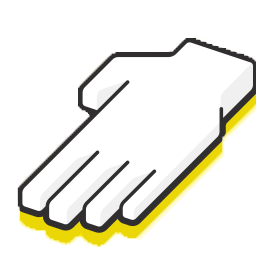
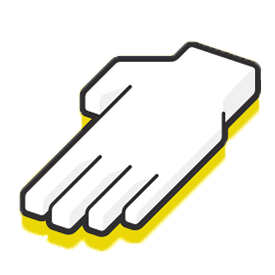
Write function in js, edit image, index to game

Changed region(s): [[0.0582, 0.1164, 0.96, 0.9309]]

diff --git a/game.html b/game.html
@@ -1,0 +1,55 @@
+<!DOCTYPE html>
+<html lang="en">
+<head>
+    <meta charset="UTF-8">
+    <meta http-equiv="X-UA-Compatible" content="IE=edge">
+    <meta name="viewport" content="width=device-width, initial-scale=1.0">
+    <title>Game</title>
+    <!-- CSS only -->
+    <link href="https://cdn.jsdelivr.net/npm/bootstrap@5.2.2/dist/css/bootstrap.min.css" rel="stylesheet" integrity="sha384-Zenh87qX5JnK2Jl0vWa8Ck2rdkQ2Bzep5IDxbcnCeuOxjzrPF/et3URy9Bv1WTRi" crossorigin="anonymous">
+    <!--Icons link-->
+    <link rel="stylesheet" href="https://cdn.jsdelivr.net/npm/bootstrap-icons@1.9.1/font/bootstrap-icons.css">  
+    <link rel="stylesheet" href="css/style.css">  
+</head>
+<body>
+    <section id="game" class="text-center py-3">
+        <div class="container-fluid container-md">
+            
+            <!-- Person -->
+            <h1 class="fw-bold">Choose One</h1>
+            <div class="games row justify-content-center p-4">
+                <img src="img/rock.png" alt="rock picture" type="button" name="rock" class="col-4 col-sm-2 choice">
+                <img src="img/scissors.png" alt="scrissors picture" type="button" name="scissors" class=" col-4  col-sm-2 choice">
+                <img src="img/paper.png" alt="paper picture" type="button" name="paper" class="col-4 col-sm-2 choice">
+            </div>
+            <div class="row justify-content-center">
+                <!--Username-->
+                <div class="personChoice col col-sm-4 row">
+                    <h3 class="">Username</h3>
+                    <div class="choiceBox user">
+                        <img src="img/rock.png" alt="picture" class="col-6 col-sm-5 ">
+                    </div>
+                    <h3>3</h3>
+                </div>
+                <!-- Computer -->
+                <div class="computerChoice col col-sm-4 row">
+                    <h3 class="">Computer</h3>
+                    <div class="choiceBox computer">
+                        <img src="img/rock.png" alt="picture" class="col-6 col-sm-5">
+                    </div>
+                    <h3>2</h3>
+                </div>
+            </div> 
+            <h3 class="my-4 gameResult">Result!</h3>
+            <div class="row px-3 justify-content-center">
+                <button type="button" class="btn btn-dark fw-bold mb-3 col-12 col-sm-3">Restart</button>   
+            </div>
+
+        </div>
+    </section>
+
+    <!-- JavaScript Bundle with Popper -->
+    <script src="https://cdn.jsdelivr.net/npm/bootstrap@5.2.2/dist/js/bootstrap.bundle.min.js" integrity="sha384-OERcA2EqjJCMA+/3y+gxIOqMEjwtxJY7qPCqsdltbNJuaOe923+mo//f6V8Qbsw3" crossorigin="anonymous"></script>
+    <script src="js/script.js"></script>
+</body>
+</html>

diff --git a/index.html b/index.html
@@ -5,54 +5,8 @@
     <meta http-equiv="X-UA-Compatible" content="IE=edge">
     <meta name="viewport" content="width=device-width, initial-scale=1.0">
     <title>Game</title>
-    <!-- CSS only -->
-    <link href="https://cdn.jsdelivr.net/npm/bootstrap@5.2.2/dist/css/bootstrap.min.css" rel="stylesheet" integrity="sha384-Zenh87qX5JnK2Jl0vWa8Ck2rdkQ2Bzep5IDxbcnCeuOxjzrPF/et3URy9Bv1WTRi" crossorigin="anonymous">
-    <!--Icons link-->
-    <link rel="stylesheet" href="https://cdn.jsdelivr.net/npm/bootstrap-icons@1.9.1/font/bootstrap-icons.css">  
-    <link rel="stylesheet" href="css/style.css">  
 </head>
 <body>
-    <section id="game" class="text-center py-3">
-        <div class="container-fluid container-md">
-
-            <h1 class="mb-4 fw-bold">Let's Play Game</h1>
-            
-            <!-- Person -->
-            <h3>Choose One</h3>
-            <div class="games row p-4">
-                <img src="img/rock.png" alt="rock picture" type="button" name="rock" class="col choice">
-                <img src="img/scissors.png" alt="scrissors picture" type="button" name="scissors" class=" col choice">
-                <img src="img/paper.png" alt="paper picture" type="button" name="paper" class="col choice">
-            </div>
-            <div class="row">
-                <!--Username-->
-                <div class="personChoice col">
-                    <h3 class="">Username</h3>
-                    <div class="choiceBox">
-                        <i class="bi bi-box"></i>
-                    </div>
-                    <h3>3</h3>
-                </div>
-                <!-- Computer -->
-                <div class="computerChoice col">
-                    <h3 class="">Computer</h3>
-                    <div class="choiceBox">
-                        <i class="bi bi-box"></i>
-                    </div>
-                    <h3>2</h3>
-                </div>
-            </div> 
-            <h3 class="my-4">Someone Win!</h3>
-            <div class="row px-3 justify-content-center">
-                <button type="button" class="btn btn-dark mb-3 me-sm-3 fw-bold col-12 col-sm-3">Start</button>
-                <button type="button" class="btn btn-dark fw-bold mb-3 col-12 col-sm-3">Restart</button>   
-            </div>
-
-        </div>
-    </section>
-
-    <!-- JavaScript Bundle with Popper -->
-    <script src="https://cdn.jsdelivr.net/npm/bootstrap@5.2.2/dist/js/bootstrap.bundle.min.js" integrity="sha384-OERcA2EqjJCMA+/3y+gxIOqMEjwtxJY7qPCqsdltbNJuaOe923+mo//f6V8Qbsw3" crossorigin="anonymous"></script>
-    <script src="js/script.js"></script>
+    
 </body>
 </html>

diff --git a/js/script.js b/js/script.js
@@ -1,27 +1,55 @@
 window.addEventListener('DOMContentLoaded', () => {
-    const choices = document.querySelectorAll('.choice')
+    const choices = document.querySelectorAll('.choice'),
+        gameResult = document.querySelector('.gameResult'),
+        userChoice = document.querySelector('.user'),
+        computerChoice = document.querySelector('.computer')
 
+    // game function
+    function playGame(user, computer) {
 
-    let r = 'rock',
-        s = 'scissors',
-        p = 'paper'
+        if (user == computer) {
+            gameResult.innerHTML = "Tie!"
+        } else if (user == 'rock' && computer == 'scissors') {
+            gameResult.innerHTML = "You Win!"
+        } else if (user == 'scissors' && computer == 'paper') {
+            gameResult.innerHTML = "You Win!"
+        } else if (user == 'paper' && computer == 'rock') {
+            gameResult.innerHTML = "You Win!"
+        } else {
+            gameResult.innerHTML = "You Lose!"
+        }
 
+        console.log(user)
+        console.log(computer)
+    }
+
+    // Show choices of user and computer function
+    function showChoice(user, computer) {
+        userChoice.innerHTML = `<img src='img/${user}.png' alt='picture' class='col-6 col-sm-5'>`
+        computerChoice.innerHTML = `<img src='img/${computer}.png' alt='picture' class='col-6 col-sm-5'>`
+    }
     
-    let user = choices.forEach((item) => {
-        let userChoose
+    // User choose one
+    choices.forEach((item) => {
         item.addEventListener('click', () => {
-           userChoose = item.name
+
+            // Computer choose random
+            const compRandom = Math.floor(Math.random() * 3)
+            let computerChoose
+            if (compRandom == 0) {
+                computerChoose = 'rock'
+            } else if (compRandom == 1) {
+                computerChoose = 'scissors'
+            } else if (compRandom == 2) {
+                computerChoose = 'paper'
+            }
+
+            playGame(item.name, computerChoose)
+            showChoice(item.name, computerChoose)    
         })
     })
-    console.log(typeof user)
-    const compChoose = Math.floor(Math.random() * 3)
-    let computer
-    if (compChoose == 0) {
-        computer = r
-    } else if (compChoose == 1) {
-        computer = s
-    } else if (compChoose == 2) {
-        computer = p
-    }
+    
+    
+
     
 })

diff --git a/css/style.css b/css/style.css
@@ -5,9 +5,12 @@ i {
     font-size: 3rem;
 }
 .games img {
-    width: 3rem;
+    /* width: 3rem; */
     transition: 0.25s;
 }
 .games img:active {
     transform: scale(1.1, 1.1);
+}
+.personChoice img {
+    transform: scaleX(-1);
 }
